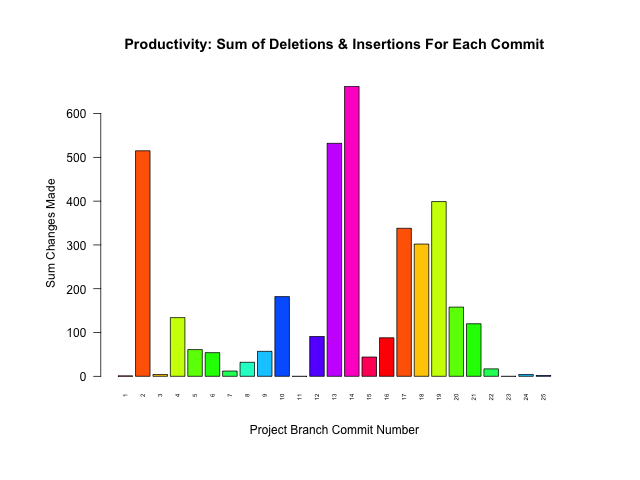
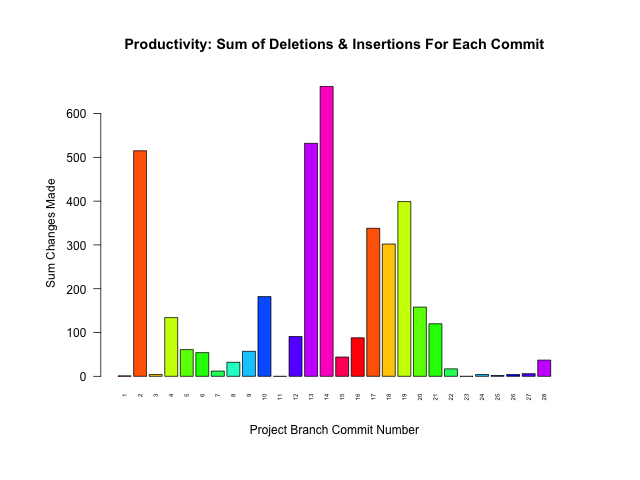
COMMIT #177

Changed region(s): [[0.1875, 0.1562, 0.8438, 0.8438], [0.8125, 0.75, 0.875, 0.7812], [0.3125, 0.8125, 0.3438, 0.8438]]

diff --git a/README.md b/README.md
@@ -18,9 +18,9 @@ ProjectName::BranchName.data
 Project Name | Last Updated | # Commits | # Branches | Branches Merged
 :---|:---:|:---:|:---:|:---:
 [minishell](https://github.com/pierremigeon/minishell)                                              |  2023-05-20  |  78   |  8  |  88%   (7/8)
-[commit_tracker](https://github.com/pierremigeon/commit_tracker)                                    |  2023-05-20  |  175  |  1  |  100%  (1/1)
+[libft](https://github.com/pierremigeon/libft)                                                      |  2023-05-20  |  28   |  2  |  50%   (1/2)
+[commit_tracker](https://github.com/pierremigeon/commit_tracker)                                    |  2023-05-20  |  176  |  1  |  100%  (1/1)
 [learn_some_C.Plus.Plus](https://github.com/pierremigeon/learn_some_C.Plus.Plus)                    |  2023-05-19  |  18   |  1  |  100%  (1/1)
-[libft](https://github.com/pierremigeon/libft)                                                      |  2023-05-18  |  25   |  2  |  50%   (1/2)
 [FASTQ_examiner](https://github.com/pierremigeon/FASTQ_examiner)                                    |  2023-05-12  |  68   |  4  |  50%   (2/4)
 [ft_printf](https://github.com/pierremigeon/ft_printf)                                              |  2023-01-27  |  36   |  2  |  100%  (2/2)
 [test_non-fastforward_merge-push](https://github.com/pierremigeon/test_non-fastforward_merge-push)  |  2023-01-27  |  15   |  2  |  50%   (1/2)

diff --git a/libft_project/readme.md b/libft_project/readme.md
@@ -1,1 +1,1 @@
-![test_image](https://github.com/pierremigeon/commit_tracker/blob/master/libft_project/libft::assets.data_sum_barplot.png)
+![test_image](https://github.com/pierremigeon/commit_tracker/blob/master/libft_project/libft::master.data_sum_barplot.png)
